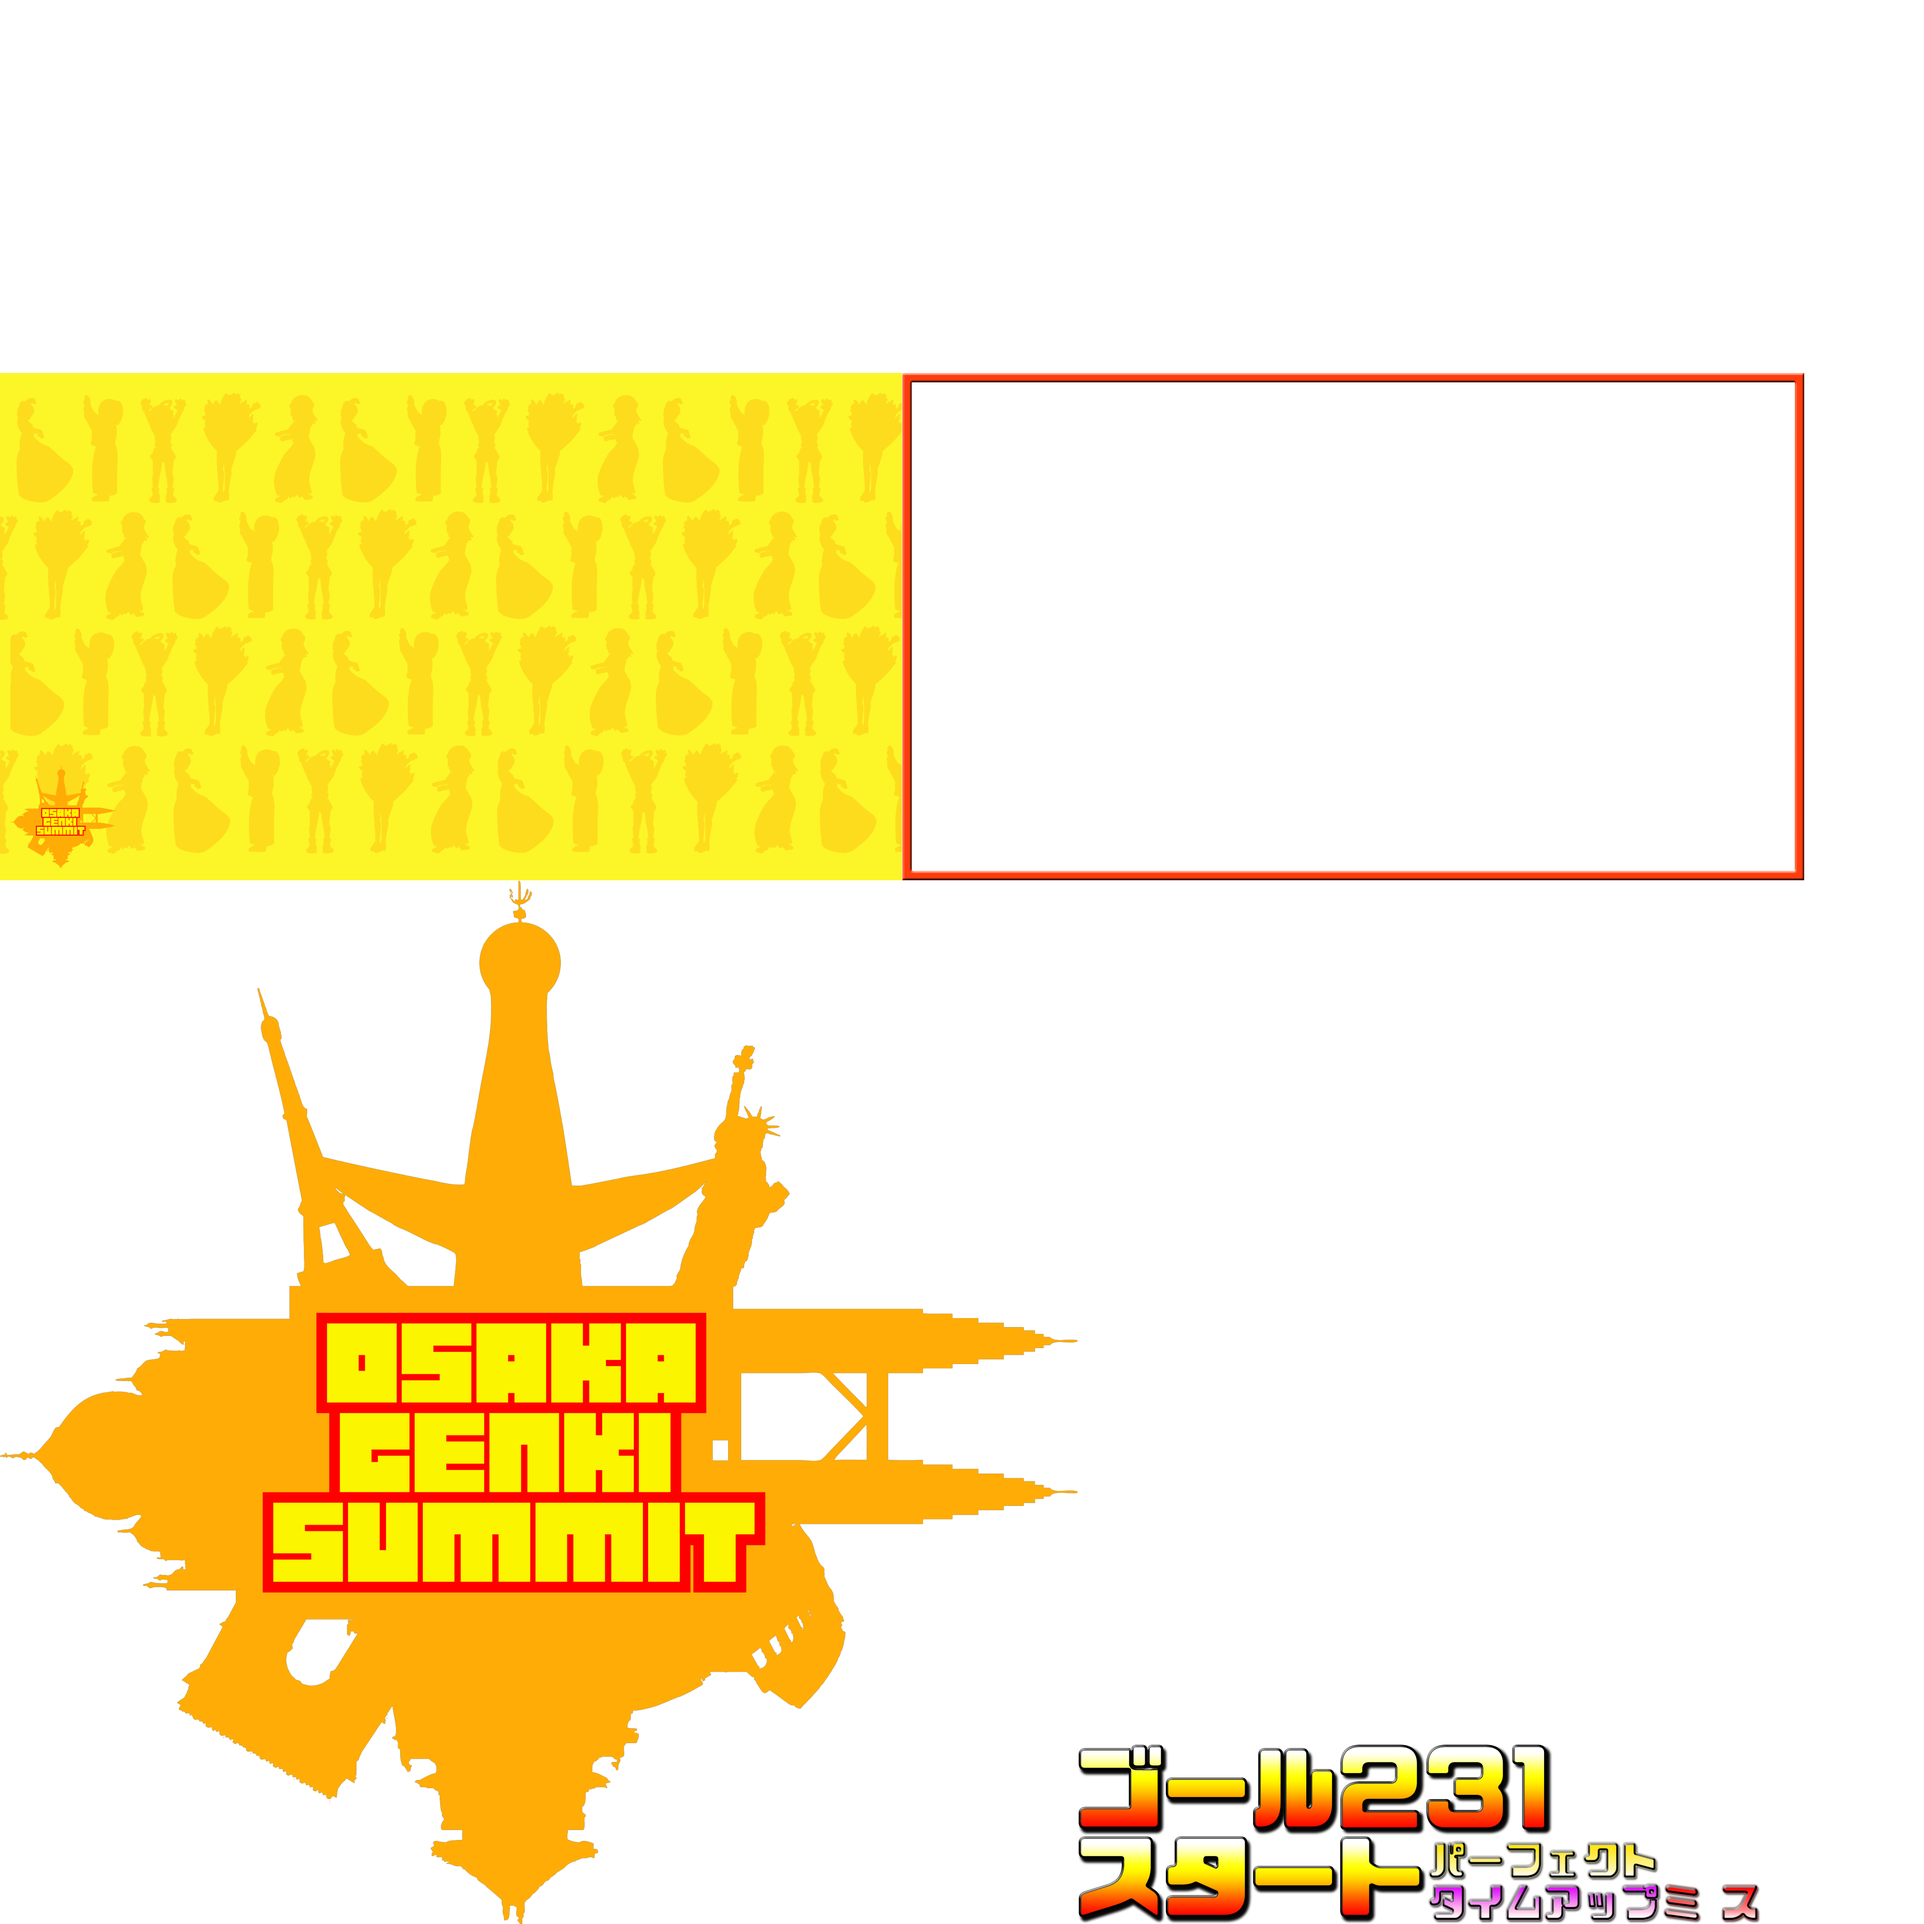
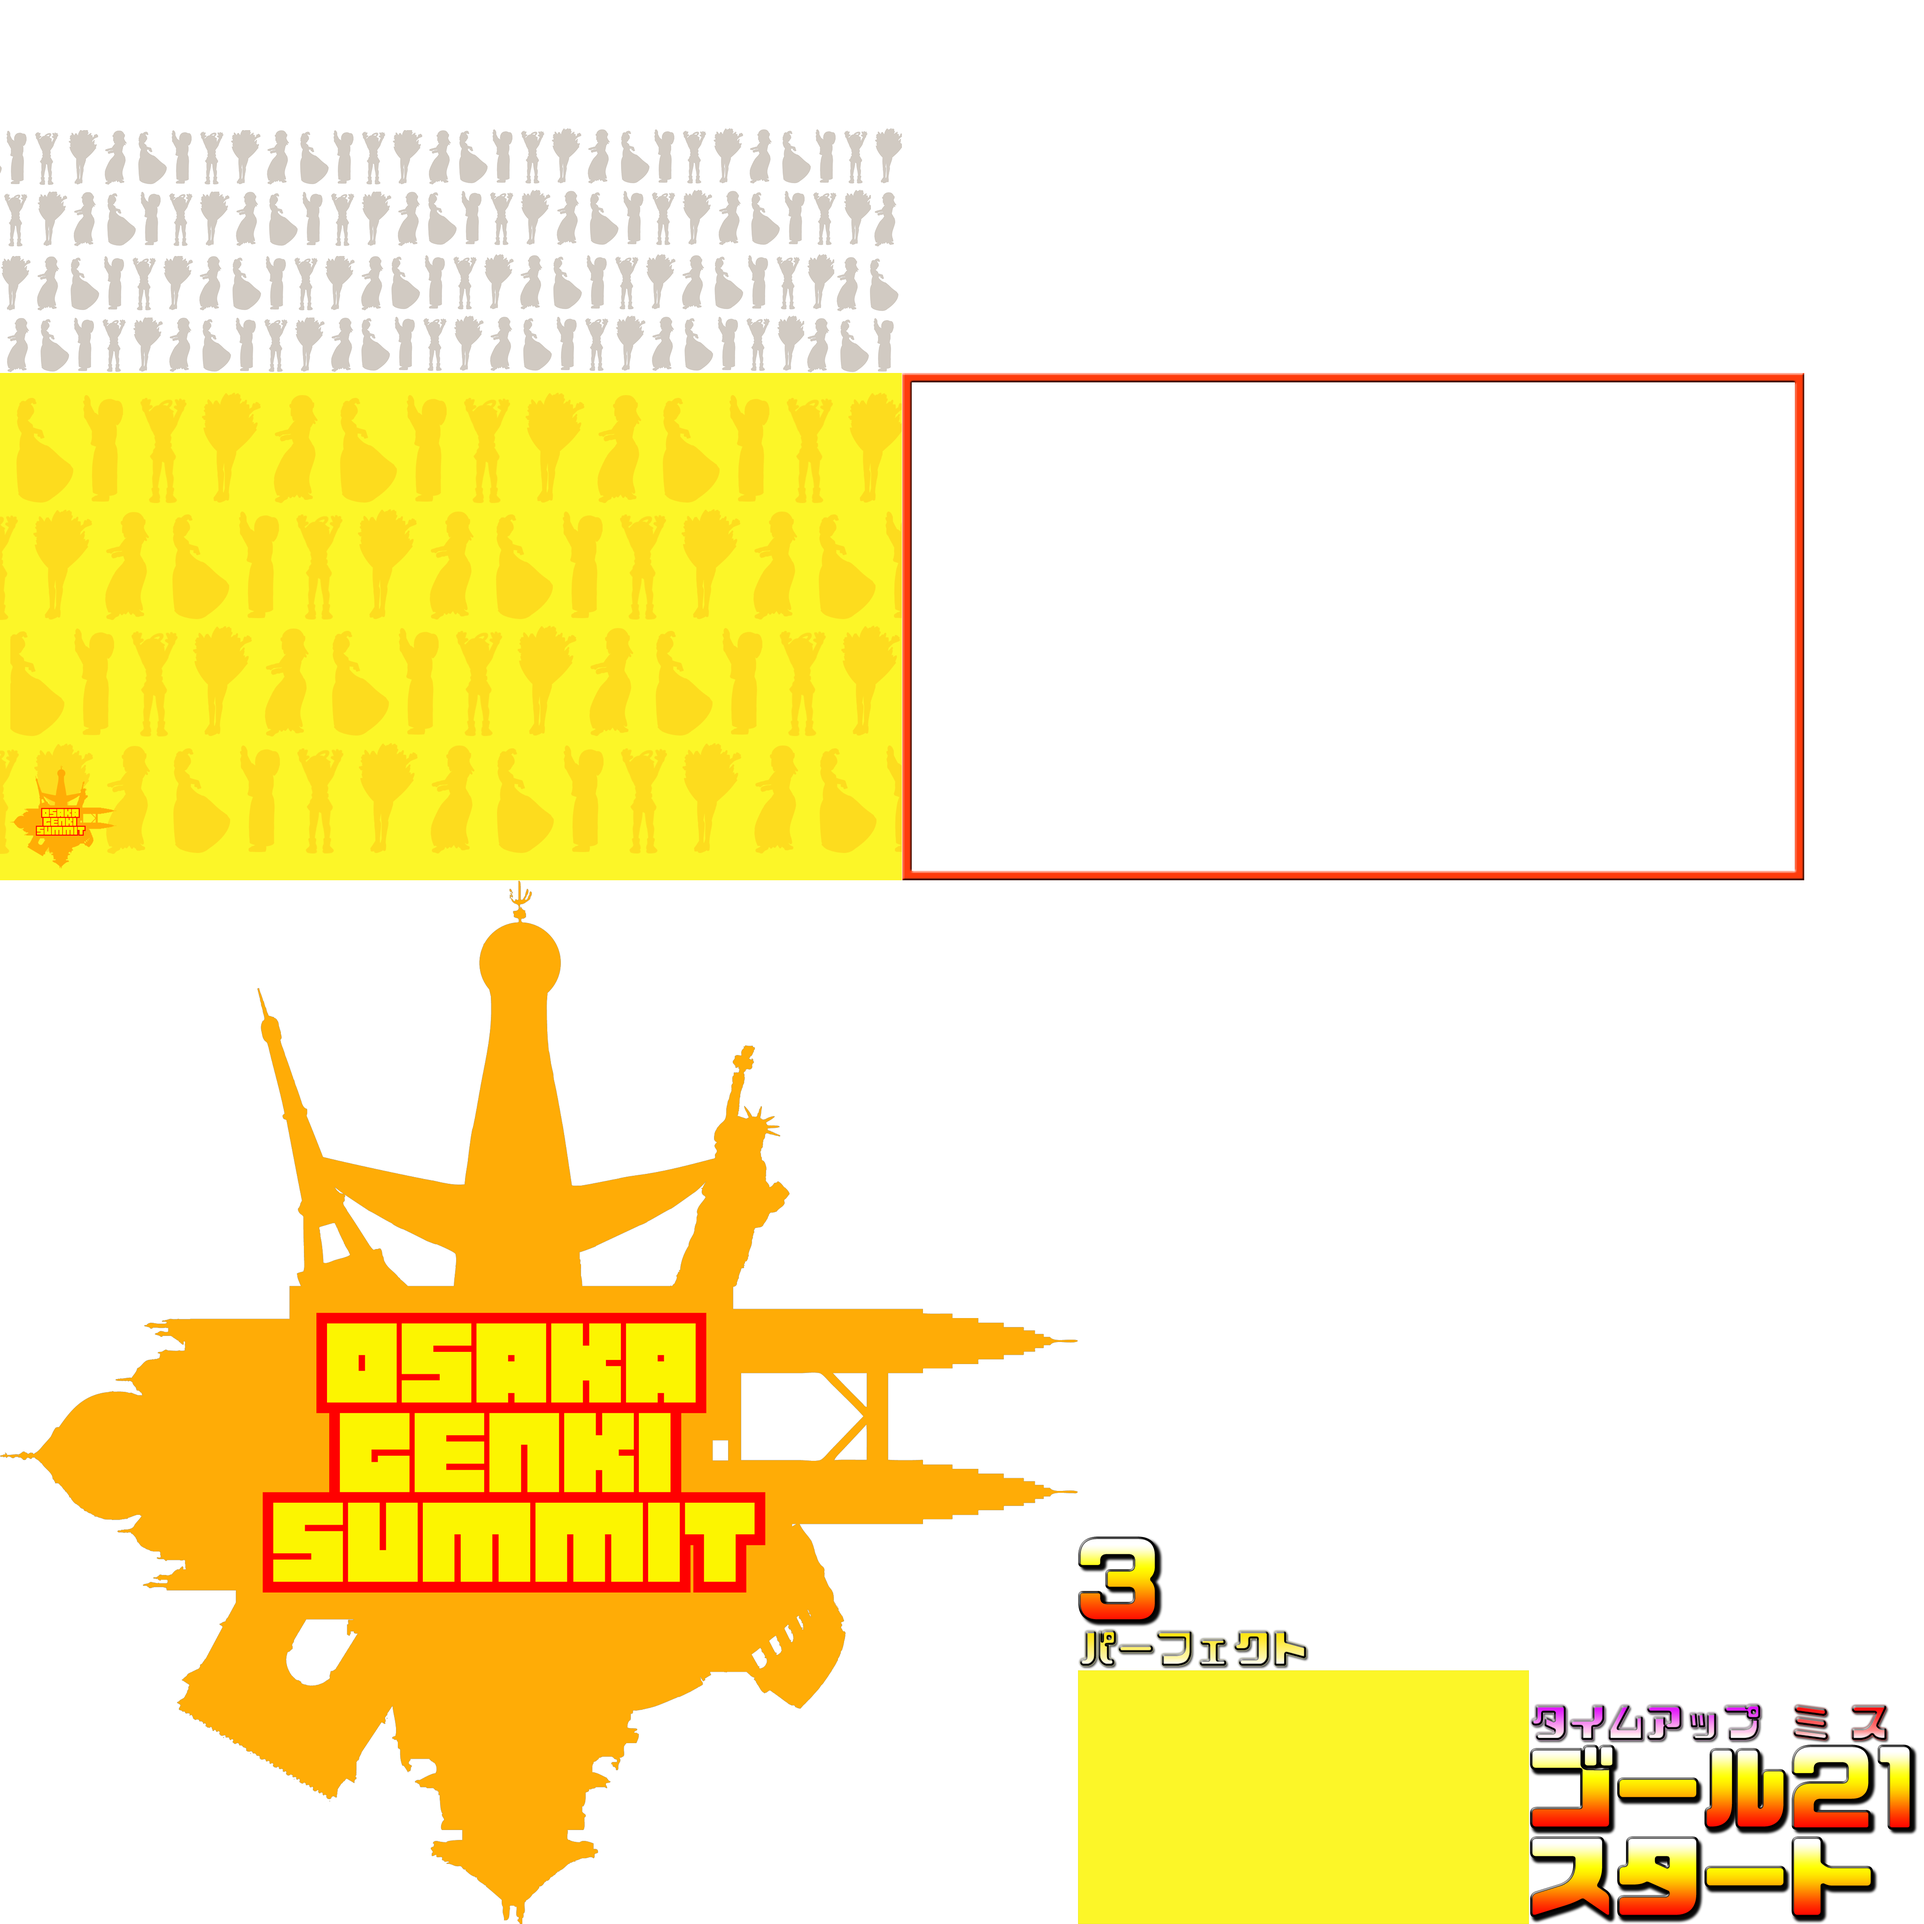
[追加]大イベント１背景スクロール

Changed region(s): [[0.5625, 0.7812, 1.0, 1.0], [0.0, 0.0625, 0.4688, 0.1875]]

diff --git a/Assets/Scripts/bigIvent1/ScrollBg.cs b/Assets/Scripts/bigIvent1/ScrollBg.cs
@@ -1,0 +1,27 @@
+using UnityEngine;
+using System.Collections;
+
+public class ScrollBg : MonoBehaviour {
+
+	float Max = 1080;
+	Vector3 Speed = new Vector3(0.5f,1f,0f);
+
+	// リセットするポジション
+	Vector3 Pos = new Vector3(-960,-1080,1);
+
+	// Use this for initialization
+	void Start () {
+	
+	}
+	
+	// Update is called once per frame
+	void Update () {
+		// 移動
+		this.gameObject.transform.localPosition += Speed;
+
+		// ポジションリセット
+		if (this.gameObject.transform.localPosition.y >= Max) {
+			this.gameObject.transform.localPosition = Pos;
+		}
+	}
+}
